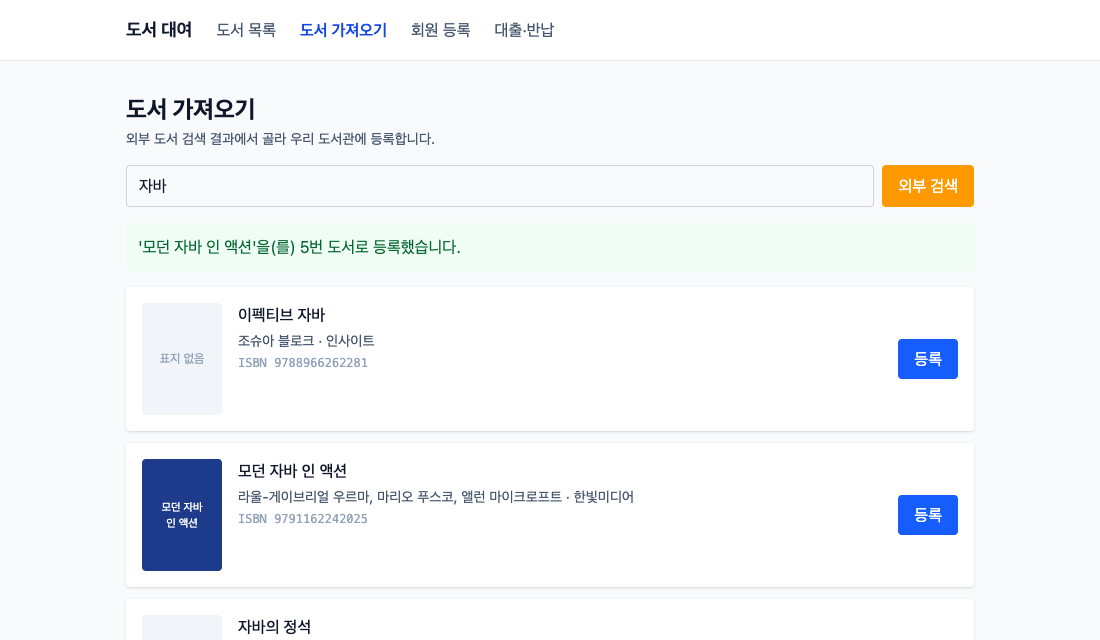
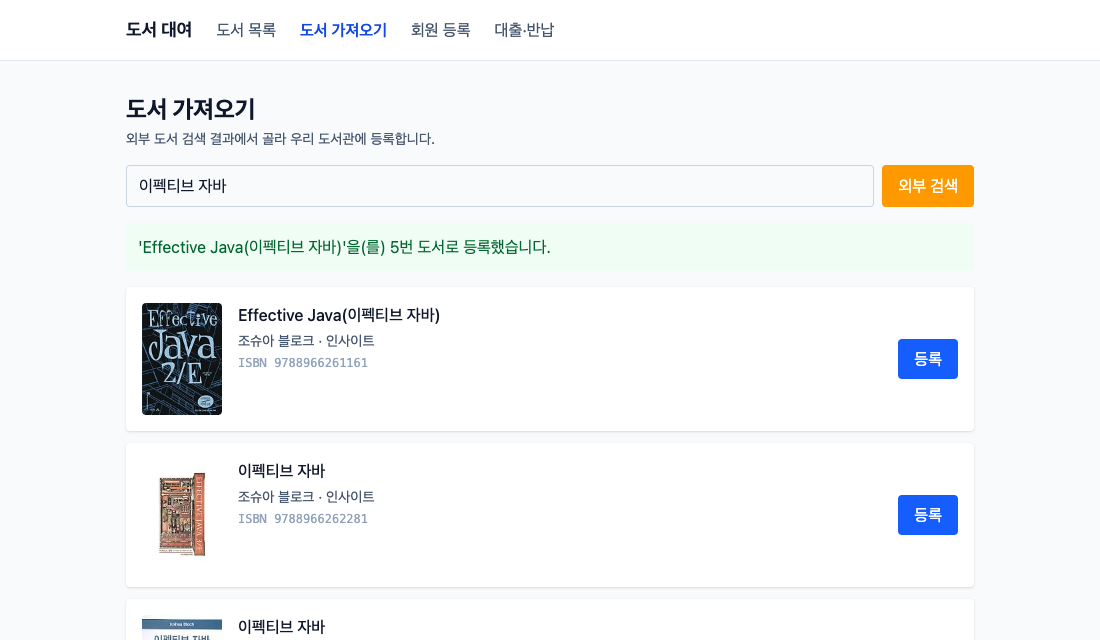
verify(java): 과제 2-4 실제 카카오 책 검색 데이터로 캡처·예상 결과 교체

diff --git a/wiki/guide-java-practice-library-book-search.md b/wiki/guide-java-practice-library-book-search.md
@@ -706,8 +706,8 @@ curl -s -w '\n%{http_code}\n' -G http://localhost:8090/api/external/books --data
 ```
 
 ```text
-예상 결과 (값은 카카오 데이터에 따라 다름)
-[{"title":"...","author":"...","publisher":"...","isbn":"978...","image":"https://search1.kakaocdn.net/..."}, ...]
+예상 결과 (2026-09-29 실측, 값은 카카오 데이터에 따라 다름 — 10건 중 첫 건만 표시)
+[{"title":"코딩 자율학습 HTML + CSS + 자바스크립트","author":"김기수","publisher":"길벗","isbn":"9791165219468","image":"https://search1.kakaocdn.net/thumb/R120x174.q85/?fname=http%3A%2F%2Ft1.daumcdn.net%2Flbook%2Fimage%2F6052846%3Ftimestamp%3D20250716142640"}, ...]
 200
 ```
 
@@ -750,7 +750,7 @@ curl -s -G https://dapi.kakao.com/v3/search/book --data-urlencode "query=자바"
 | `429` | 쿼터 초과 | 카카오디벨로퍼스의 사용량 |
 | `I/O error ... timed out` | 3초 안에 연결되지 않았거나 5초 안에 응답이 없음 | 네트워크·방화벽, `application.yml`의 타임아웃 |
 
-> **이 글의 검증 환경에서**: 모범 답안을 검증할 때는 REST API 키 없이 진행해, 실제 카카오 책 데이터로는 화면을 찍지 않았습니다. 그래서 6단계의 검색·등록 그림은 다음 4-2의 대역 서버로 찍었습니다. 위의 401 → 502 흐름과 6단계의 502 그림은 실제 카카오 응답으로 확인한 결과입니다. 여러분의 키로 200이 오면 4-2는 건너뛰어도 됩니다.
+> **이 글의 검증 환경에서**: 모범 답안은 실제 카카오 REST API 키로 검증했습니다(2026-09-29). 위 200 응답과 6단계의 검색·등록·중복 그림은 실제 카카오 데이터이고, 401 → 502 흐름은 키를 뺀 실행으로 확인했습니다. 4-2의 대역 서버는 키 발급 전이나 네트워크가 없을 때 흐름을 확인하는 용도입니다.
 
 ### 4-2. 키 없이 흐름 확인 — 로컬 대역 서버
 
@@ -1361,7 +1361,7 @@ java -jar target/library-0.0.1-SNAPSHOT.jar --spring.profiles.active=h2,local
 [INFO] BUILD SUCCESS
 ```
 
-`java -jar`도 `library`에서 실행해야 루트의 `application-local.yml`이 읽힙니다. 4-2의 대역 서버로 확인한다면 `--spring.profiles.active=h2 --kakao.base-url=http://localhost:9999 --kakao.rest-api-key=stub-key`로 실행합니다. 아래 검색·등록 그림은 대역 서버로 찍었습니다.
+`java -jar`도 `library`에서 실행해야 루트의 `application-local.yml`이 읽힙니다. 4-2의 대역 서버로 확인한다면 `--spring.profiles.active=h2 --kakao.base-url=http://localhost:9999 --kakao.rest-api-key=stub-key`로 실행합니다. 아래 검색·등록 그림은 실제 카카오 응답으로 찍었습니다.
 
 새 터미널에서 새 화면 주소를 직접 열어도 화면이 뜨는지 확인합니다.
 
@@ -1374,19 +1374,19 @@ curl -s -o /dev/null -w '%{http_code} %{content_type}\n' http://localhost:8090/b
 200 text/html
 ```
 
-브라우저에서 `http://localhost:8090/books/import`를 열고 `자바`로 **외부 검색**을 누릅니다.
+브라우저에서 `http://localhost:8090/books/import`를 열고 `이펙티브 자바`로 **외부 검색**을 누릅니다.
 
 ![외부 도서 검색 결과 카드](assets/practice/book-search/01-search-results.png)
 
-*그림 2. 검색 결과 — 표지가 있는 결과와 "표지 없음" 결과가 섞인 카드 3장 (4-2 대역 서버 응답)*
+*그림 2. 검색 결과 — 실제 카카오 응답을 우리 모양으로 다듬어 그린 카드 (표지·저자·출판사·13자리 ISBN)*
 
-카드마다 제목, 이어 붙인 저자·출판사, 13자리 ISBN이 보입니다. 두 번째 카드는 응답의 `thumbnail` 주소로 표지를 그렸고, 나머지는 `thumbnail`이 비어 "표지 없음" 자리를 보여 줍니다. 실제 카카오 응답이라면 대부분의 카드에 표지가 나옵니다. 두 번째 카드 "모던 자바 인 액션"의 **등록**을 누릅니다.
+카드마다 제목, 이어 붙인 저자·출판사, 13자리 ISBN이 보이고, 표지는 응답의 `thumbnail` 주소로 그렸습니다(`thumbnail`이 빈 결과는 "표지 없음" 자리가 나옵니다). 첫 번째 카드 "Effective Java(이펙티브 자바)"(2판, ISBN 9788966261161)의 **등록**을 누릅니다.
 
 ![등록 성공 안내](assets/practice/book-search/02-register-success.png)
 
 *그림 3. 등록 성공 — `POST /api/books`가 H2에 5번 도서로 저장*
 
-"5번 도서로 등록했습니다"의 5는 H2가 매긴 번호입니다(시드 도서가 4권). 메뉴의 **도서 목록**이나 메인의 신착 도서 맨 앞에서 이 도서를 볼 수 있습니다. 이번에는 첫 번째 카드 "이펙티브 자바"의 **등록**을 누릅니다.
+"5번 도서로 등록했습니다"의 5는 H2가 매긴 번호입니다(시드 도서가 4권). 메뉴의 **도서 목록**이나 메인의 신착 도서 맨 앞에서 이 도서를 볼 수 있습니다. 이번에는 두 번째 카드 "이펙티브 자바"(3판, ISBN 9788966262281)의 **등록**을 누릅니다.
 
 ![중복 ISBN 409 안내](assets/practice/book-search/03-register-409.png)
 

diff --git a/wiki/log.md b/wiki/log.md
@@ -4,6 +4,9 @@ title: Wons Wiki 로그
 
 # Wiki Log
 
+## [2026-09-29] verify | 과제 2-4 실제 카카오 키로 재촬영
+- 사용자 제공 REST API 키를 저장소 밖 `~/.config/wonslab/kakao.env`(600)에 두고 앱 실행 셸에서만 환경 변수로 주입. 실제 검색 "이펙티브 자바" → 표지·ISBN 카드, 2판 등록 성공, 3판(시드 ISBN) 409 캡처 교체. 4-1 curl 예상 결과를 실측(10건, 200)으로, "대역 서버로 찍음" 설명을 실제 데이터 기준으로 수정. 서버 로그·저장소·사이트에 키 문자열 0건 확인.
+
 ## [2026-09-29] feat+verify | 과제 2-4 외부 도서 검색 — 카카오 책 검색 v3로 재작성
 - [[guide-java-practice-library-book-search]] (1483줄): 네이버 책 검색 종료(2026-07-31, 공지 32564)를 📌 교재 포인트로 → `BookSearchClient` 인터페이스 뒤에 `KakaoBookClient`(RestClient, `Authorization: KakaoAK`), 키는 `application-local.yml`(git 제외)·환경 변수 `KAKAO_REST_API_KEY`만. 실패는 502 `EXTERNAL_API_ERROR`로, 카카오 401 본문이 키를 되돌려 주므로 상태 코드만 로그. `@RestClientTest`+MockRestServiceServer 3개(Spring 14), 가져오기 화면 `/books/import`(Vitest 12), 표준 라이브러리 대역 서버, 기존 E2E 3개 통과.
 - 캡처 5장(`raw/assets/practice/book-search/`): 검색·등록·409는 대역 서버, 502는 실제 카카오 401 응답. 실제 키로 재촬영은 backlog Pending.

diff --git a/wiki/backlog.md b/wiki/backlog.md
@@ -200,7 +200,7 @@ updated: 2026-09-28
 
 ### 다음 세션 최우선 (Pending)
 
-- [ ] **과제 2-4 실제 카카오 키로 캡처 재촬영** — `~/.config/wonslab/kakao.env`(KAKAO_REST_API_KEY) 생성 후 검증 세션 scratchpad의 `practice-kakao/reshoot-real.sh` 방식으로 01~03 재촬영, 페이지의 "대역 서버" 문구·4-1 curl 예상 결과를 실측값으로. (scratchpad는 세션 한정 — 새 세션이면 페이지 코드로 프로젝트 재구성 후 촬영)
+- [x] **과제 2-4 실제 카카오 키로 캡처 재촬영** — 완료(2026-09-29): 검색·등록·409 그림과 4-1 curl 결과를 실제 카카오 데이터로 교체. 키는 `~/.config/wonslab/kakao.env`(권한 600, 저장소 밖)에만 보관.
 
 **구조 제안 9~13 완료 (2026-09-28)**: 위키 워크플로 3→1([[concept-wiki-workflow]]), 도구 4개→[[entity-obsidian]], Claude Design 2→1, 북마크 페이지 삭제(옛 URL은 firebase.json 301 리다이렉트 9개), ch00 안내 축소·0.0→ch06 6.3, JVM T2→T5, 홈 주제별 개편, lecture 32개 Boot 4.x 표기, raw toc "(추정)" 교정.
 
